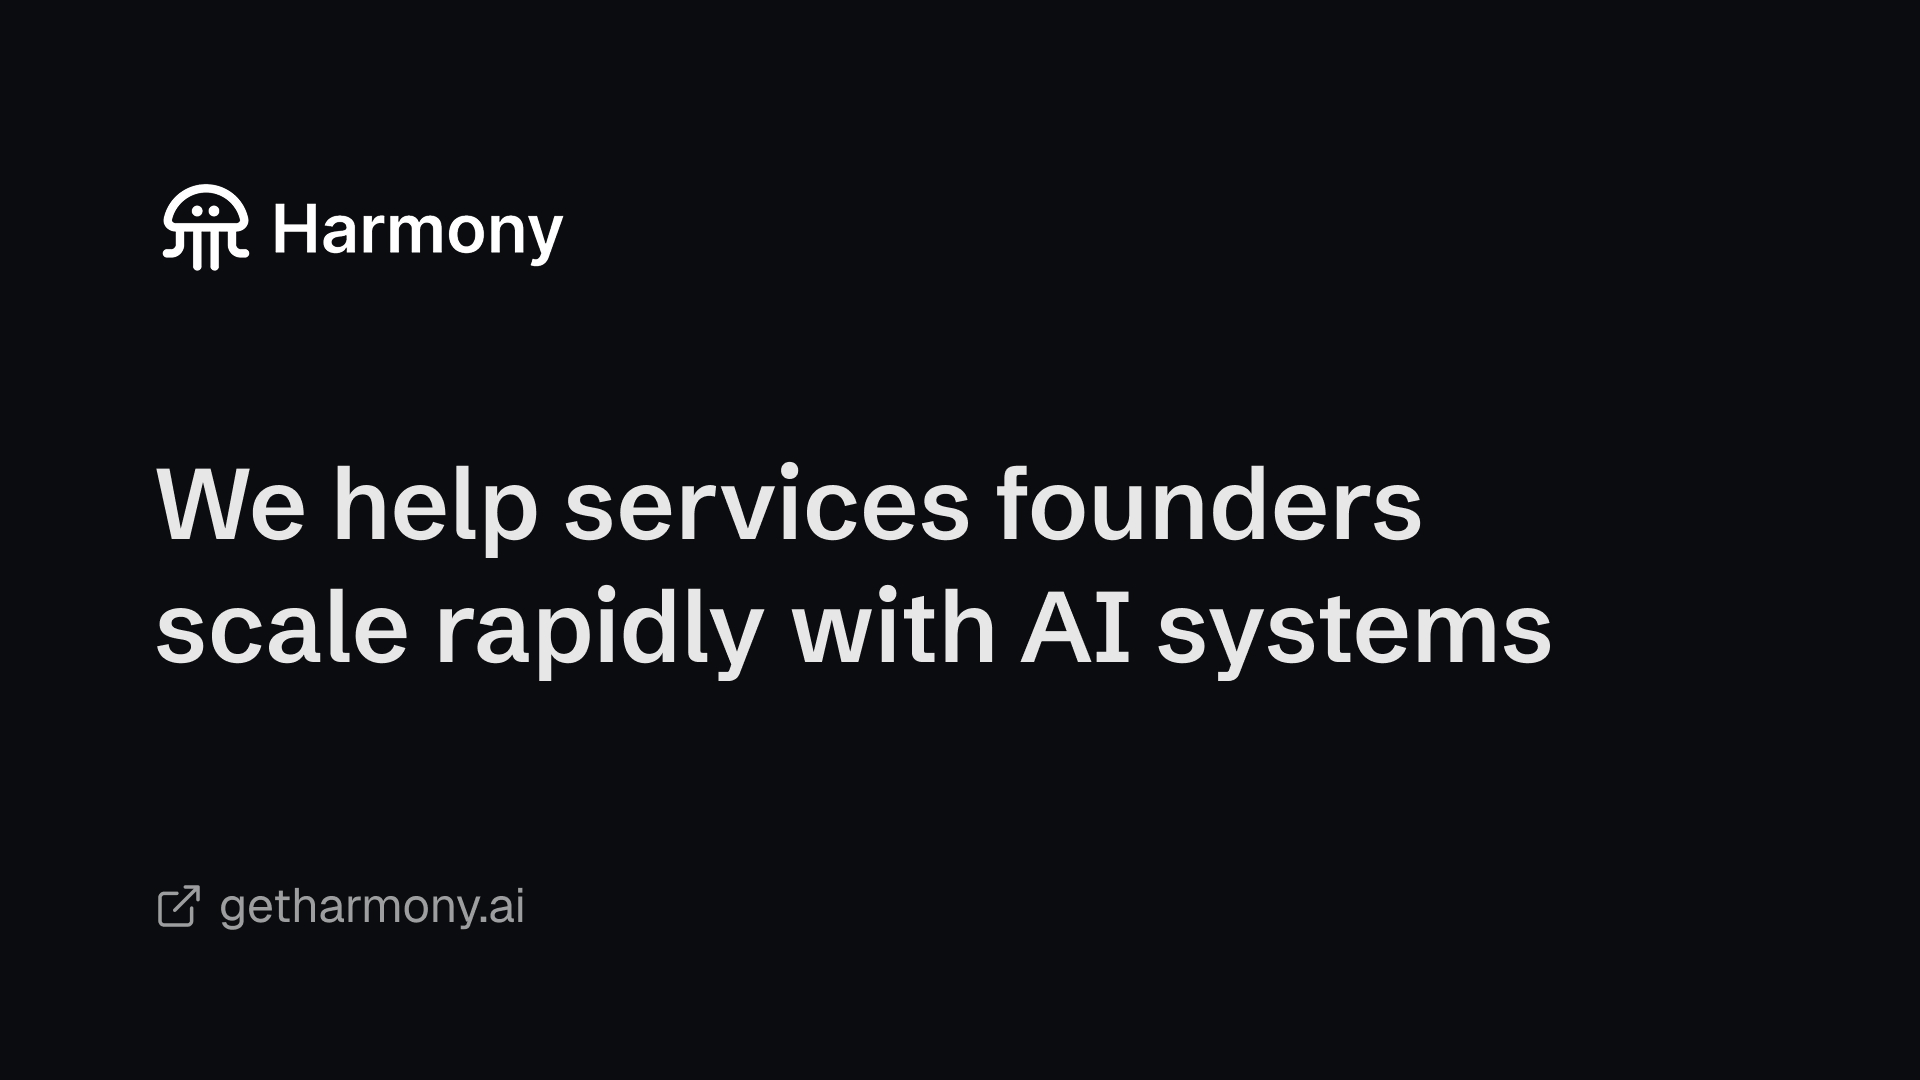
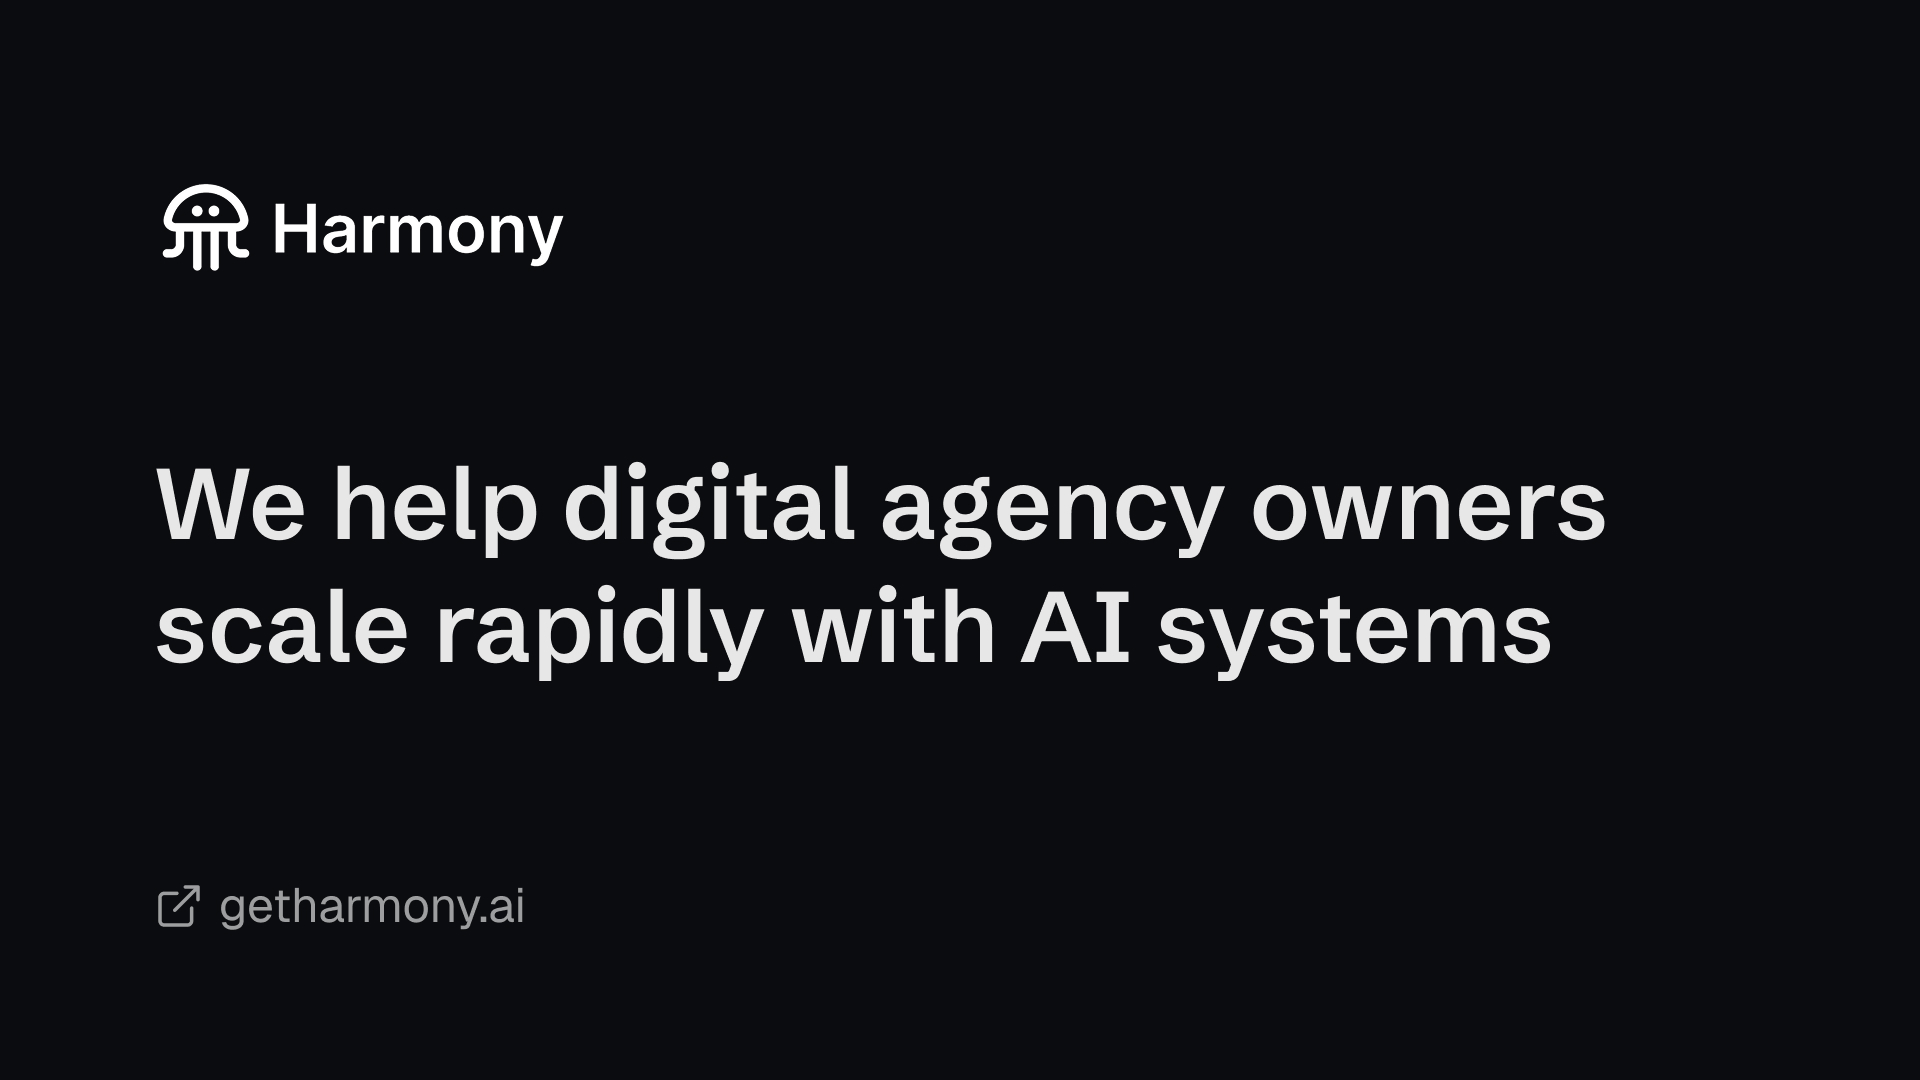
Update landing hero and meta copy for digital agencies

Changed region(s): [[0.2812, 0.4278, 0.8438, 0.5194]]

diff --git a/app/page.tsx b/app/page.tsx
@@ -21,7 +21,6 @@ import {
   PartyPopper,
   Repeat,
   Rocket,
-  Scale,
   Server,
   ShoppingBag,
   Sparkles,
@@ -58,9 +57,9 @@ const CAL_LINK = "harmony-vishal/discovery";
 const CAL_CONFIG = JSON.stringify({ layout: "month_view", theme: "dark" });
 
 export const metadata: Metadata = {
-  title: "Harmony | AI Systems to Scale Services Businesses",
+  title: "Harmony | AI Systems for Digital Agencies",
   description:
-    "Harmony builds AI systems for services businesses across marketing, sales, fulfillment, and admin work, so founders get unstuck from the busywork and scale rapidly.",
+    "Harmony builds AI systems for digital services across marketing, sales, client service, fulfillment, and admin work, so founders get unstuck from the busywork and scale rapidly.",
 };
 
 /* ------------------------------ ATOMS ------------------------------ */
@@ -470,8 +469,12 @@ const whoWeHelp = [
     title: "Marketing Agencies",
   },
   {
+    icon: <Server className="h-5 w-5" strokeWidth={1.6} />,
+    title: "IT Services",
+  },
+  {
     icon: <Compass className="h-5 w-5" strokeWidth={1.6} />,
-    title: "IT & Management Consulting",
+    title: "Management Consulting",
   },
   {
     icon: <ShoppingBag className="h-5 w-5" strokeWidth={1.6} />,
@@ -492,10 +495,6 @@ const whoWeHelp = [
   {
     icon: <CircleDollarSign className="h-5 w-5" strokeWidth={1.6} />,
     title: "Financial Services Firms",
-  },
-  {
-    icon: <Scale className="h-5 w-5" strokeWidth={1.6} />,
-    title: "Law Firms",
   },
   {
     icon: <Landmark className="h-5 w-5" strokeWidth={1.6} />,
@@ -831,9 +830,9 @@ export default function AgentflowPage() {
               className="mx-auto max-w-[680px] text-center text-[32px] font-normal leading-[1.1] text-white md:text-[46px]"
               style={{ fontFamily: "var(--font-schibsted)" }}
             >
-              For <span className="text-[#9ff690]">6-8 figure</span> services
+              For <span className="text-[#9ff690]">6-8 figure</span> digital
               <br />
-              firms ready to scale
+              services ready to scale
             </h2>
 
             <div className="mt-12 grid gap-4 sm:grid-cols-2 lg:mt-16 lg:grid-cols-3">
@@ -866,7 +865,7 @@ export default function AgentflowPage() {
           <Heading>Why you need our AI systems?</Heading>
         </div>
         <Sub className="mt-5">
-          Our proven AI systems free you up and move the firm to autopilot.
+          Our Agency Scaler OS frees you and puts your firm on autopilot.
         </Sub>
 
         {/* foundation-to-scale growth ramp: what an AI system produces */}
